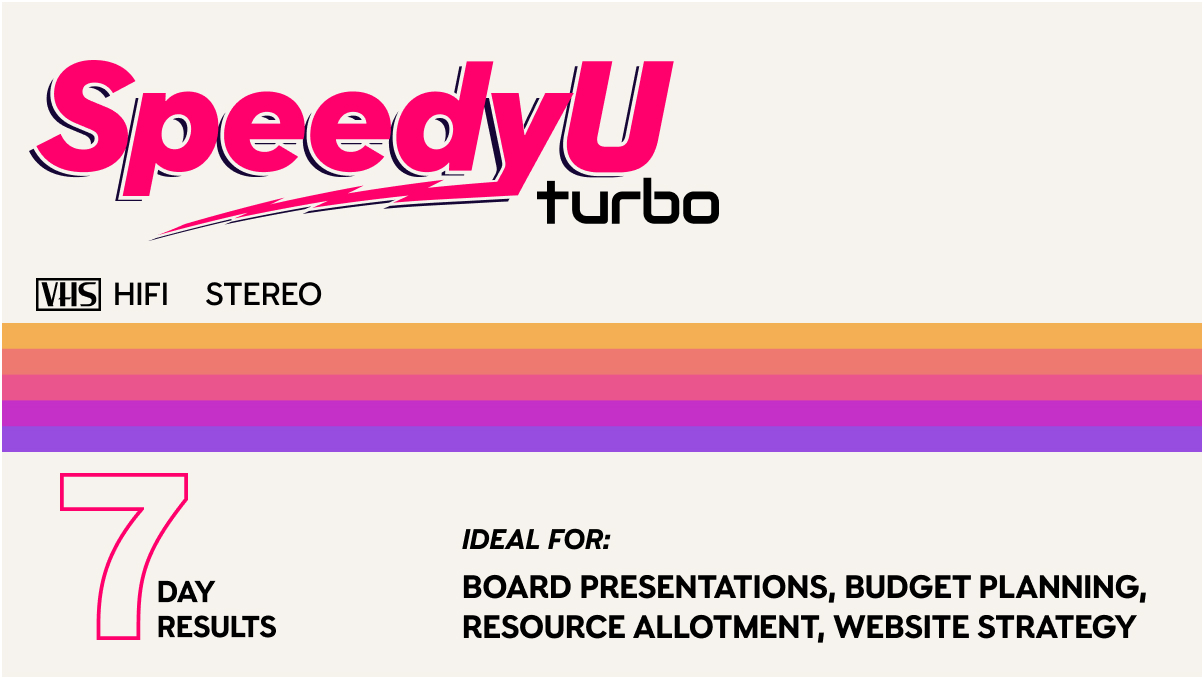
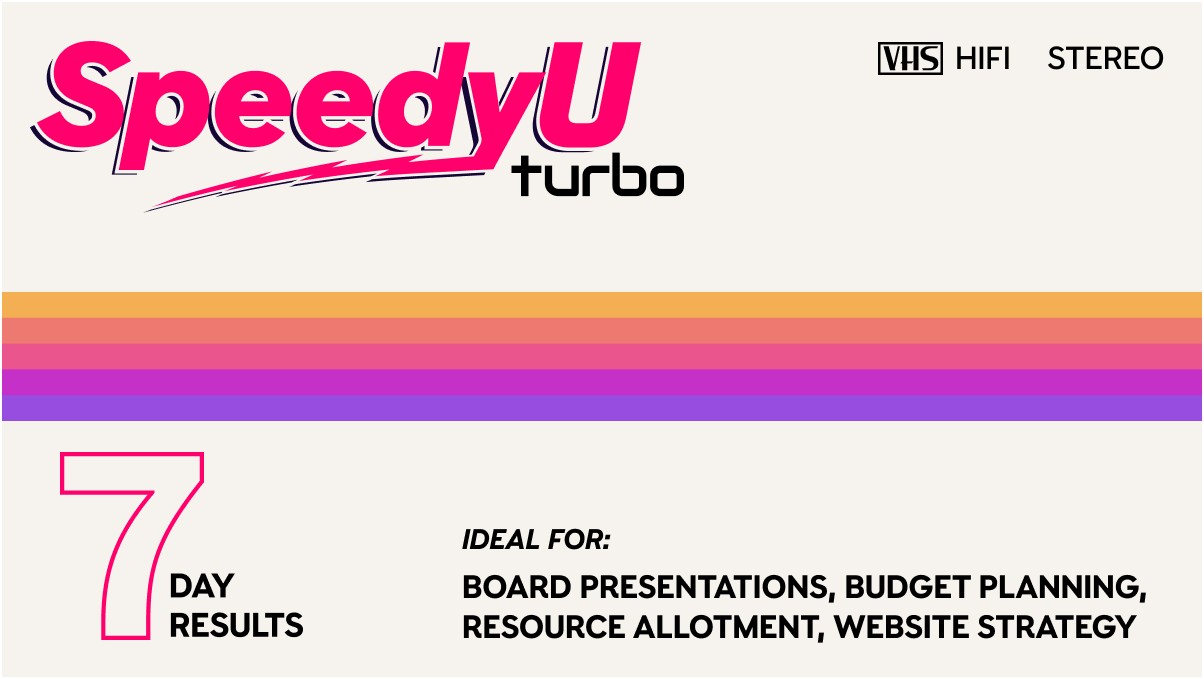
Spacing on safari

diff --git a/_includes/assets/scss/_turbo.scss b/_includes/assets/scss/_turbo.scss
@@ -44,6 +44,9 @@
     flex-direction: column;
     justify-content: space-between;
     padding-block-end: 16px;
+    h2 {
+        margin-block-start: 0;
+    }
     h2 svg {
         height: 83px;
         flex-shrink: 0;

diff --git a/_includes/assets/css/bravery.css b/_includes/assets/css/bravery.css
@@ -3296,6 +3296,9 @@ form.heht-subscribe.error:before {
   justify-content: space-between;
   padding-block-end: 16px;
 }
+.turbo h2 {
+  margin-block-start: 0;
+}
 .turbo h2 svg {
   height: 83px;
   flex-shrink: 0;
